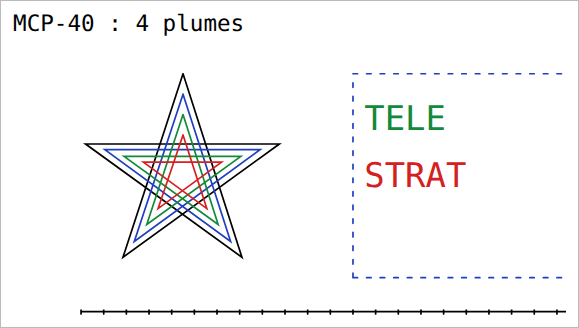
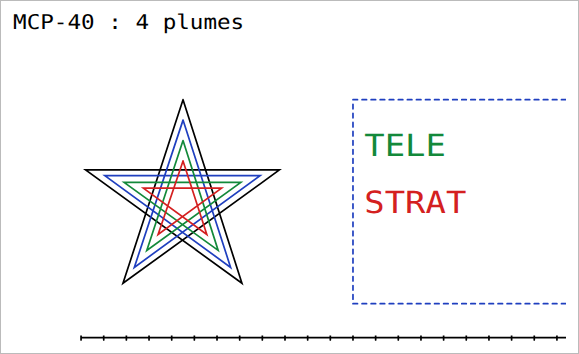
v0.12.1 : MCP-40 revue avec les manuels français et Tandy CGP-115
- Couleurs 0 noir, 1 bleu, 2 vert, 3 rouge confirmées par le manuel du
  CGP-115 (même mécanisme ; les manuels Oric se contredisent).
- CHR$(18) : origine en marge gauche, sous la plume.
- Taille S gardée en mode texte ; interligne du mode texte = 2 largeurs de
  caractère (mesuré sur l'autotest du manuel CGP-115).
- Pointillés L n : n pas tracés, n pas levés (estimé).
- 357 tests unitaires ; documentation et références à jour.

diff --git a/src/devices/plotter_mcp40.h b/src/devices/plotter_mcp40.h
@@ -9,24 +9,33 @@
 // caractères. L'en-tête (hauteur du rouleau) est complété à la fermeture.
 //
 // Papier : 480 pas de 0,2 mm en largeur (96 mm), X vers la droite, Y vers le
-// haut ; coordonnées de -999 à 999.
-// Mode texte (à la mise sous tension) : 40 colonnes ; CHR$(8) retour
-// arrière, 10 saut de ligne, 11 saut de ligne inverse, 13 retour chariot,
-// 18 mode graphique, 29 plume suivante.
+// haut ; coordonnées de -999 à 999. Mécanisme du Tandy CGP-115 (même jeu de
+// commandes ; son manuel complète celui de la MCP-40).
+// Mode texte (à la mise sous tension) : 40 colonnes (commutateur DIP) ;
+// CHR$(8) retour arrière, 10 saut de ligne, 11 saut de ligne inverse, 13
+// retour chariot (sans saut de ligne : commutateur « CR only »), 18 mode
+// graphique, 29 plume suivante. La taille choisie par S en mode graphique
+// reste en vigueur en mode texte (manuel CGP-115).
 // Mode graphique : commandes d'une lettre et paramètres, terminées par un
 // retour chariot (LPRINT) : A (retour au mode texte, origine en marge
-// gauche), C n (plume 0-3), D x,y[,x,y…] (trait absolu), H (retour à
-// l'origine), I (nouvelle origine), J x,y[,…] (trait relatif), L n (type de
-// ligne 0-15), M x,y (déplacement absolu), P texte, Q n (sens d'écriture
-// 0-3), R x,y (déplacement relatif), S n (taille : 80 / (n + 1) caractères
-// par ligne), X a,pas,nombre (axe gradué) ; CHR$(17) : mode texte.
+// gauche), C n (plume 0-3 : noir, bleu, vert, rouge), D x,y[,x,y…] (trait
+// absolu), H (retour à l'origine), I (nouvelle origine), J x,y[,…] (trait
+// relatif), L n (type de ligne 0-15), M x,y (déplacement absolu), P texte,
+// Q n (sens d'écriture 0-3), R x,y (déplacement relatif), S n (taille :
+// 80 / (n + 1) caractères par ligne), X a,pas,nombre (axe gradué) ;
+// CHR$(17) : mode texte. En entrant en mode graphique, l'origine est en
+// marge gauche, sous la plume.
 //
-// Incertain (le manuel ne le dit pas ou se contredit) : ordre des couleurs
-// (table des positions de plume : 1 noir, 2 bleu, 3 vert, 4 rouge, gardée ;
-// la page de la commande C dit 0 noir, 1 rouge, 2 vert, 3 bleu) ; hauteur des
-// caractères et interligne du mode texte (estimés : interligne = 1,5 fois la
-// largeur d'un caractère) ; dessin des pointillés (L 1-15) et longueur des
-// graduations de X. Caractères tracés en police « monospace » du lecteur SVG.
+// Couleurs : les manuels Oric (anglais et français) disent à la commande C
+// « 0 noir, 1 rouge, 2 vert, 3 bleu » mais conseillent les plumes 1 noir,
+// 2 bleu, 3 vert, 4 rouge ; le manuel du CGP-115 dit « 0 = Black, 1 = Blue,
+// 2 = Green, 3 = Red » : gardé.
+// Mesuré sur l'autotest imprimé du manuel CGP-115 (figure 12) : interligne
+// du mode texte ≈ 2 fois la largeur d'un caractère, hauteur des capitales
+// ≈ 1 fois. Estimé (aucun manuel ne le chiffre) : pointillés L n = n pas
+// tracés, n pas levés (d'après l'allure de la table des types de ligne) ;
+// graduations de X : 2 pas de part et d'autre de l'axe. Caractères tracés
+// en police « monospace » du lecteur SVG, pas avec la police de la machine.
 //
 // ## Licence zlib/libpng
 //
@@ -93,6 +102,7 @@ typedef struct {
 static inline void mcp40_init(mcp40_t* p, const printer_out_t* out) {
     memset(p, 0, sizeof(*p));
     if (out) p->out = *out;
+    p->size = 480 / MCP40_TEXT_COLS / 6 - 1;  // 40 colonnes : S1
 }
 
 /*-- Sortie --------------------------------------------------------------------*/
@@ -154,7 +164,8 @@ static inline void _mcp40_end_run(mcp40_t* p) {
     p->run[p->run_n] = 0;
     if (_mcp40_ink(p)) {
         _mcp40_end_path(p);
-        const int32_t fs = p->run_adv * 5 / 3;  // largeur d'un caractère « monospace » : 0,6 em
+        // Capitales ≈ 0,72 em en « monospace » : hauteur ≈ largeur d'un caractère
+        const int32_t fs = p->run_adv * 3 / 2;
         _MCP40_PRINTF(p, "<text x=\"%d\" y=\"%d\" font-family=\"monospace\" font-size=\"%d\" fill=\"%s\"",
                       (int)p->run_x, (int)-p->run_y, (int)fs, mcp40_colors[p->run_pen & 3]);
         _MCP40_PRINTF(p, " textLength=\"%d\" lengthAdjust=\"spacingAndGlyphs\"", (int)(p->run_adv * p->run_n));
@@ -200,7 +211,7 @@ static inline void _mcp40_draw(mcp40_t* p, int32_t x, int32_t y) {
         if (!p->path) {
             _MCP40_PRINTF(p, "<path fill=\"none\" stroke=\"%s\" stroke-width=\"1.5\" stroke-linecap=\"round\"",
                           mcp40_colors[p->pen & 3]);
-            if (p->ltype) _MCP40_PRINTF(p, " stroke-dasharray=\"4 %d\"", 2 * p->ltype);
+            if (p->ltype) _MCP40_PRINTF(p, " stroke-dasharray=\"%d %d\"", p->ltype, p->ltype);
             _mcp40_puts(p, " d=\"");
             p->path = true;
             p->path_pen = p->pen;
@@ -243,10 +254,8 @@ static inline void mcp40_finish(mcp40_t* p) {
 
 /*-- Mode texte ----------------------------------------------------------------*/
 
-static inline int32_t _mcp40_text_adv(void) { return MCP40_WIDTH / MCP40_TEXT_COLS; }
-
 static inline void _mcp40_text(mcp40_t* p, uint8_t c) {
-    const int32_t adv = _mcp40_text_adv(), pitch = adv * 3 / 2;
+    const int32_t adv = 6 * (p->size + 1), pitch = 2 * adv;
     switch (c) {
         case 8: _mcp40_move(p, p->x >= adv ? p->x - adv : 0, p->y); return;
         case 10: _mcp40_move(p, p->x, p->y - pitch); return;
@@ -256,6 +265,8 @@ static inline void _mcp40_text(mcp40_t* p, uint8_t c) {
             _mcp40_end_run(p);
             p->graphic = true;
             p->cmd = 0;
+            p->ox = 0;  // origine : marge gauche, sous la plume
+            p->oy = p->y;
             return;
         case 29:
             _mcp40_end_run(p);

diff --git a/tests/test_telestrat.c b/tests/test_telestrat.c
@@ -1672,7 +1672,7 @@ static void test_plotter_mcp40(void) {
     mcp40_send(&p, "\x12" "C1\rL2\rM10,10\rJ5,0,0,5\rC3\rL0\rI\rD1,1\r");
     mcp40_finish(&p);
     buf[m.len] = 0;
-    CHECK(strstr(s, "stroke=\"#1f3fbf\"") && strstr(s, "stroke-dasharray=\"4 4\"") && strstr(s, "M10 -10L15 -10L15 -15"),
+    CHECK(strstr(s, "stroke=\"#1f3fbf\"") && strstr(s, "stroke-dasharray=\"2 2\"") && strstr(s, "M10 -10L15 -10L15 -15"),
           "C1 L2 J : %s", s);
     CHECK(strstr(s, "stroke=\"#d42020\"") && strstr(s, "M15 -15L16 -16"), "C3 I D : origine déplacée");
 
@@ -1684,7 +1684,15 @@ static void test_plotter_mcp40(void) {
     CHECK(strstr(s, "textLength=\"24\" lengthAdjust=\"spacingAndGlyphs\">AB</text>"), "mode texte, 40 colonnes : %s", s);
     CHECK(strstr(s, ">&lt;&amp;&gt;</text>") && strstr(s, "textLength=\"36\""), "P : taille S1 (12 pas), échappement");
     CHECK(strstr(s, "transform=\"rotate(90"), "Q1 : haut en bas");
-    CHECK(p.x == 36 && p.y == -18 - 12, "plume après le texte (%d, %d)", (int)p.x, (int)p.y);
+    // Interligne du mode texte : deux largeurs de caractère (24 pas) ; Q1 descend
+    CHECK(p.x == 36 && p.y == -24 - 12, "plume après le texte (%d, %d)", (int)p.x, (int)p.y);
+    CHECK(p.ox == 0 && p.oy == -24, "CHR$(18) : origine en marge gauche, sous la plume (%d, %d)", (int)p.ox, (int)p.oy);
+    // La taille S reste en vigueur en mode texte (manuel CGP-115)
+    mcp40_init(&p, &out);
+    mcp40_send(&p, "\x12S3\rA\rXY");
+    mcp40_finish(&p);
+    buf[m.len] = 0;
+    CHECK(strstr(s, "textLength=\"48\"") && strstr(s, ">XY</text>"), "S3 puis mode texte : 24 pas par caractère : %s", s);
 
     // Rien d'imprimé : pas de fichier
     m.opens = 0;

diff --git a/docs/BACKLOG.md b/docs/BACKLOG.md
@@ -140,7 +140,8 @@ tard ; modèles : Epson FX-80 (ESC/P) et Oric MCP-40.
 | US | Récit | État |
 |---|---|---|
 | US-120 | Epson FX-80 : pages PNG écrites au fil de l'eau (bande de 32 lignes), modes de caractères, interlignes, marges, tabulations, graphiques | ✅ banc (`test_telestrat`, `test_printer`), ⏳ carte |
-| US-121 | MCP-40 : tracés SVG 4 couleurs (texte, D J M R H I C L P Q S X A) | ✅ banc, ⏳ carte, ⏳ vraie MCP-40 (couleurs, tailles) |
+| US-121 | MCP-40 : tracés SVG 4 couleurs (texte, D J M R H I C L P Q S X A) | ✅ banc, ⏳ carte, ⏳ vraie MCP-40 (pointillés) |
+| US-125 | MCP-40 revue avec le manuel français et celui du Tandy CGP-115 (même mécanisme) : ordre des couleurs tranché, origine en entrant en mode graphique, taille S gardée en mode texte, interligne mesuré (v0.12.1) | ✅ banc |
 | US-122 | Menu et `TELESTRA.CFG` : Texte → FX-80 → MCP-40 → coupée (`imprimante_type=`) | ✅ banc |
 | US-123 | Pas de perte : ACK retenu tant que la file est presque pleine | ✅ code, rejeu identique |
 | US-124 | Banc : `-G fx80:RÉP` / `mcp40:RÉP`, outil `printer_render` (rendu après coup d'un `IMPRIM.TXT`) | ✅ |
@@ -171,9 +172,10 @@ tard ; modèles : Epson FX-80 (ESC/P) et Oric MCP-40.
 - FX-80 : police 9 x 11 de la FX-80, mode proportionnel, caractères de
   l'utilisateur (`ESC &`), autres jeux internationaux ; confronter une page
   au rendu d'une vraie FX-80.
-- MCP-40 : ordre des couleurs (le manuel se contredit), hauteur des
-  caractères, interligne du mode texte, pointillés, graduations de `X` ;
-  commutateurs DIP (20 / 80 colonnes).
+- MCP-40 : confronter à une vraie machine (MCP-40 ou Tandy CGP-115) les
+  pointillés, les graduations de `X`, l'interligne mesuré sur une figure ;
+  police vectorielle de la machine ; commutateurs DIP (80 colonnes,
+  CR + LF).
 - Instantanés (savestates), sélecteur de ROM au démarrage.
 - Test « golden » image contre Oricutron (PPM), ROM ORIX.
 

diff --git a/docs/REFERENCES.md b/docs/REFERENCES.md
@@ -38,3 +38,5 @@
 | Manuel de la table traçante Oric MCP-40, [manualslib.com/manual/1202312/Oric-Mcp-40.html](https://www.manualslib.com/manual/1202312/Oric-Mcp-40.html) (pages lues par OCR) | 480 pas de 0,2 mm, codes du mode texte, commandes A C D H I J L M P Q R S X, table des plumes ; contradictions et manques notés dans `plotter_mcp40.h` |
 | Table `ESC R` usuelle de l'ESC/P (jeu France : à ° ç § é ù è ¨) | absente de l'OCR du manuel FX-80 : reprise de la table ESC/P connue, à vérifier sur une FX-80 |
 | TELEMON 2.4, source (`~/telemon`, `src/telemon.asm` `$CA2F`, `xtstlp.asm`) | impression par interruption CA1 : l'octet suivant n'est envoyé qu'à l'ACK |
+| « Oric MCP40 imprimante couleur, manuel d'utilisation » (Oric, en français), `~/Téléchargements` — fourni par le PO | origine en marge gauche sous la plume en entrant en mode graphique ; même contradiction sur les couleurs que le manuel anglais |
+| « TRS-80 Color Graphic Plotter CGP-115 Operation Manual » (Radio Shack 26-1192), [colorcomputerarchive.com](https://colorcomputerarchive.com/repo/Documents/Manuals/Hardware/CGP-115%20(Tandy).pdf), aussi [archive.org](https://archive.org/details/cgp-115_operation_manual) — même mécanisme que la MCP-40 (indiqué par le PO) ; lu par OCR | couleurs C0-C3 noir, bleu, vert, rouge ; taille S gardée en mode texte ; commutateurs DIP (40/80 colonnes, CR seul ou CR + LF) ; autotest (figure 12) : interligne ≈ 2 largeurs de caractère |

diff --git a/README.md b/README.md
@@ -140,11 +140,13 @@ est retardé) : rien n'est perdu. Variante RAM 64 Ko : Texte seulement.
 
 Limites connues : police unscii-8 (8 x 8) à la place de celle de la FX-80,
 mode proportionnel imprimé en Pica, caractères définis par l'utilisateur
-ignorés, jeux internationaux États-Unis et France seulement. MCP-40 : le
-manuel se contredit sur l'ordre des couleurs (table des plumes gardée : 0
-noir, 1 bleu, 2 vert, 3 rouge) et ne donne ni la hauteur des caractères, ni
-l'interligne du mode texte, ni le dessin exact des pointillés : valeurs
-estimées, à confronter à une vraie MCP-40.
+ignorés, jeux internationaux États-Unis et France seulement. MCP-40
+(mécanisme du Tandy CGP-115, dont le manuel complète ceux de l'Oric) :
+couleurs 0 noir, 1 bleu, 2 vert, 3 rouge (manuel CGP-115 ; les manuels Oric
+se contredisent) ; interligne du mode texte et hauteur des caractères
+mesurés sur l'autotest imprimé du manuel CGP-115 ; dessin des pointillés et
+longueur des graduations estimés ; caractères en police « monospace », pas
+celle de la machine.
 
 **Clé retirée puis rebranchée** : au retrait, les lecteurs de la clé sont
 vidés (l'image en flash revient dans A), la cassette est éjectée ; au

diff --git a/docs/TESTS.md b/docs/TESTS.md
@@ -68,8 +68,9 @@ Programme 6502 synthétique en banque 7, exécuté par le cœur W65C02S de reloa
   écriture limitée par appel ; ouverture refusée sans blocage ;
 - MCP-40 (`plotter_mcp40.h`) : carré du manuel (`D`), SVG complet, en-tête
   réécrit (étendue, hauteur en mm) ; `C1`, `L2`, `J`, `I` ; mode texte (40
-  colonnes), `P` de taille `S1`, caractères échappés, `Q1` ; pas de fichier
-  sans tracé ;
+  colonnes, interligne de 24 pas), `P` de taille `S1`, caractères échappés,
+  `Q1` ; origine fixée par `CHR$(18)` ; taille `S3` gardée en mode texte ;
+  pas de fichier sans tracé ;
 - menu : modèle d'imprimante et dernière page affichés ; Entrée fait
   défiler texte, FX-80, MCP-40, coupée ; `imprimante_type=` écrit et lu ;
 - cassette (`oric_tape.h`) : trames (parité), moteur arrêté, synchro
